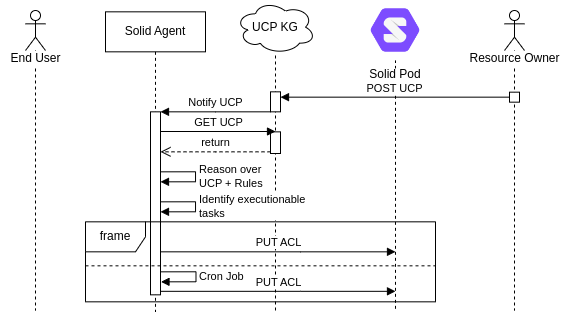
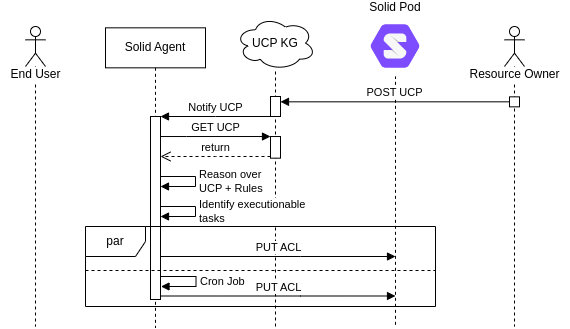
Docs/ucp demo (#9)
* WIP

* WIP: add stub low level

* WIP: Low level UML explanation

* docs: add low level explanation

* docs: finish low level uml diagram + comparison with koreografeye

* docs: fix grammer/typos

diff --git a/documentation/ucp/README.md b/documentation/ucp/README.md
@@ -3,7 +3,7 @@
 ## Use case: Temporal Usage Control Policy execution for Solid Resources
 
 The [International Data Space Association (IDSA)](https://internationaldataspaces.org/) defines several [IDS Usage Control Policies](https://international-data-spaces-association.github.io/DataspaceConnector/Documentation/v6/UsageControl).
-**The Duration-restricted Data Usage policy** is a temporal UCP which allows data usage for a specified time period.
+**The Duration-restricted Data Usage policy** is a temporal UCP which allows data usage for a specified period.
 
 Below is an example of such a policy.
 
@@ -36,7 +36,7 @@ This policy states that an assignee (`https://woslabbi.pod.knows.idlab.ugent.be/
 At the time of writing, however, no implementations exist that allow you to use an IDSA UCP to define access control over [Solid](https://solidproject.org/TR/protocol) resources.
 
 To enforce Usage Control Policies, two plugins ([AclPlugin](../../src/plugins/AclPlugin.ts) and [CronPlugin](../../src/plugins/CronPlugin.ts)) were implemented and an example rule ([CronRule](../../rules/usage-control/CronRule.n3)) was crafted for the [Solid Agent](../../README.md).
-[DemoUCPAgent.ts](../../src/demo/DemoUCPAgent.ts) contains a class **DemoUCPAgent** which configures the Solid Agent with these plugins and rule.
+[DemoUCPAgent.ts](../../src/demo/DemoUCPAgent.ts) contains a class **DemoUCPAgent** which configures the Solid Agent with these plugins and this rule.
 
 ## Demo
 
@@ -64,7 +64,7 @@ Now that everything is installed and you are still in the Solid-Agent directory,
 
 ### Running the demo
 
-To demonstrate this configuration of the Solid Agent, following steps must be executed:
+To demonstrate this configuration of the Solid Agent, the following steps must be executed:
 
 1.  Start a [Community Solid Server (CSS)](https://github.com/CommunitySolidServer/CommunitySolidServer) at port 3000
     ```shell
@@ -90,15 +90,15 @@ To demonstrate this configuration of the Solid Agent, following steps must be ex
     ```
     The first approach sends an HTTP POST request to the policy container with as content the duration policy as in the example above. <br>
     The second approach executes the same duration policy using a typescript script. <br>
-    It is a bit easier to adapt the WebID, target resource or the duration time, and additionally it logs to the console what will happen. <br>
+    It is a bit easier to adapt the WebID, target resource or the duration time, and additionally, it logs to the console what will happen. <br>
     E.g. The WebID can be changed by editing [line 37](https://github.com/SolidLabResearch/Solid-Agent/blob/392a822386c2feae8c2fba9325bfbd42c448344b/UcpSendPolicy.ts#L37) in `UcpSendPolicy.ts`
 4.  (Optional) To verify whether you have access to the resource for the given duration, you can authenticate with the configured WebID in [Penny](https://penny.vincenttunru.com/). <br>
     There, in the top search bar you put in the URL of the resource (`http://localhost:3000/ldes`). <br>
-    Now you can verify that indeed you only have access to the resource through penny for the given duration after you have sent the UCP to the policy container.
+    Now you can verify that indeed you only have access to the resource through Penny for the given duration after you have sent the UCP to the policy container.
 
 ### Screencast
 
-Following screencast shows how it works when we send a policy
+The following screencast shows how it works when we send a policy.
 
 [![Screencast](./demo-Duration-UCP.gif)](https://raw.githubusercontent.com/woutslabbinck/Solid-Agent/58da48d3bf0cadf113a26911f5304456288e4441/documentation/ucp/demo-Duration-UCP.mp4)
 
@@ -129,16 +129,61 @@ In this section, I will try to explain in a bit more detail what happens interna
 4. As a conclusion of this reasoning task, we get two Koreografeye Policies. An Acl Policy and a CronJob Policy (with as function to fire an Acl Policy). 
     * The ACL Plugin changes the acl of `resource` so that the **End User** (`odrl:assignee`) now has `acl:Read` access to `resource`.
         * At this point, the **End User** has access to the `resource`
-    * The Cronjob Plugin starts a timer, so that in 30 seconds a prohibition ACL plugin is executed
+    * The Cronjob Plugin starts a timer so that in 30 seconds a prohibition ACL plugin is executed
 5. After the 30 seconds have passed, the CronJob starts the prohibition execution
     * The Acl Plugin changes the acl of `resource` so that the **End User** now has no access anymore to `resource`.
         * Now, the **End User** does not have access to the `resource` anymore
 
-These steps are also described in the following UML Sequence diagram:
+These steps are also visualised in the following UML sequence diagram:
 ![](./Solid-agent-UCP%20use%20case%20(high%20level%20UML).png)  
 
 
 <!-- ![](./Solid-Agent-UCP%20use%20case%20(flow).png) -->
+
+### Low-Level explanation
+
+This section explains the execution flow within the Demo UCP initialisation of the Solid Agent, which is based on the [Koreografeye](https://github.com/eyereasoner/Koreografeye) [architecture](https://github.com/eyereasoner/Koreografeye/blob/main/documentation/architecture.md).
+
+In this setting, the Solid Agent consists of two actors: 
+
+* **Solid Actor**: This actor is an Interface Actor (see [architecture S. Kirrane](https://papers.ssrn.com/sol3/papers.cfm?abstract_id=3945443)) which interacts with Solid Resources and the other Orchestration Actor.
+* **Orchestration Actor**: Executes the Koreografeye execution flow in a streaming way and interacts/orchestrates with other actors within the Solid Agent.
+
+1. The **Solid Actor** is configured to subscribe to a container, more specifically: the Policy Container.
+   * Each time a resource is added to that container, the actor is notified. Then, the actor fetches the `resource` and passes it to the **Orchestration Actor**.
+2. The first step of the **Orchestration Actor** is the reasoning step, executed by the **Reasoner**. 
+   * In the **Reasoner**, the EYE reasoner is executed with as premise the [CronRule](../../rules/usage-control/CronRule.n3) and the `resource` (a duration UCP).
+   * The conclusion, in this case, consists of two [Koreografeye policies](https://github.com/eyereasoner/Koreografeye/blob/main/documentation/architecture.md), which are defined in RDF
+     * A CronJob policy that contains the description that an ACL policy MUST be executed in 30 seconds from t<sub>now</sub>.
+     * An ACL policy that contains the description that the ACL auxiliary resource of the `resource` MUST be updated so that the **End User** has `acl:Read` permission.
+   * The whole conclusion is passed to the next step: the **Policy Extractor**.
+3. The **Policy Extractor** extracts the two Koreografeye policies from the conclusion. 
+    Then it passes them both asynchronously to the next step the **Policy Executor**.
+4. The **Policy Executor** receives a policy and executes it. Per policy, it fetches the plugin (based on the `fno:executes` predicate) and runs the plugin with as arguments the policy and an actor
+   * The [fnoChangeAcl](../../src/plugins/AclPlugin.ts) changes the ACL auxiliary resource of `resource` using the Solid Actor to `acl:Read` for the WebID of **End User**.
+   * The [fnoCronPlugin](../../src/plugins/CronPlugin.ts) fires a new policy, in this case removing `acl:Read` access for **End User** of `resource`, in t<sub>now</sub> + 30 seconds to the orchestrator.
+5. The **Orchestration Actor** is run again with as input the policy retrieved from the *fnoCronPlugin*.
+   * The **Reasoner** will not infer anything new, though as the conclusion also contains the input, there is an ACL policy (Prohibition) present. The conclusion is passed to the **Policy Extractor**.
+   * The **Policy Extractor** extracts the ACL policy and passes it to the **Policy Executor**.
+   * The **Policy Executor** fetches the fnoChangeAcl plugin which gets executed: now the **End User** does not have `acl:Read` access to `resource` anymore.
+
+This flow is also visualized in the following UML sequence diagram: 
+
+![stub](./Solid-agent-UCP%20use%20case%20(low%20level%20UML).png)
+
+#### Comparison with Koreografeye
+
+The general approach of the Solid Agent follows the *reason, extract, execute* approach of Koreografeye. 
+However, it extends Koreografeye by continuously running.
+Let me elaborate on this: in Koreografeye, first, you reason over data (RDF) and rules (N3) and as a result, you get a conclusion (RDF). Then you execute the policies by using this conclusion and plugins.
+With the Solid Agent, it is possible to listen to a given resource (or container like an `ldp:inbox` container or in this case the policy container) (not limited to Solid) and apply the whole Koreografeye flow on every change in that resource.
+
+Furthermore, the Solid Agent plugins currently have an extra argument (and optional third) compared to the plugins of Koreografeye.
+This extra argument is the **actor** which should be used in the plugin to execute an (authenticated) interface call.
+E.g. The Solid Actor can be used to send authenticated requests to a Solid Pod.
+In Koreografeye, this is handled by parsing a `.env` file.
+
+The plugins used in this demo can, however, be used stand-alone by wrapping them in a class and extending the `PolicyPlugin` abstract class.
 
 ## Limitations/Assumptions
 
@@ -148,7 +193,7 @@ They are listed below with some explanation:
 * The **Usage Control Policy Knowledge Graph (UCP KG)** is modelled as a solid container, which furthermore requires that the solid server supports the [Solid Notifications Protocol](https://solidproject.org/TR/notifications-protocol) v0.2.0.
   * This way, the agent can listen to any policy addition
   * Additionally, we can then assume that the KG of UCPs is valid. 
-    The agent does not check whether the complete set of UCPs are valid or not, it will only execute them. 
+    The agent does not check whether the complete set of UCPs is valid or not, it will only execute them. 
     Any conflicts in the UCP KG thus are the fault of the end user, not of the agent.
 * For each target resource (`ids:target`), the agent MUST have `acl:Control` permission.
 * The [Solid Protocol](https://solidproject.org/TR/protocol) defines two options for Authorization (§11): **Web Access Control (WAC)** and **Access Control Policy (ACP)**.
